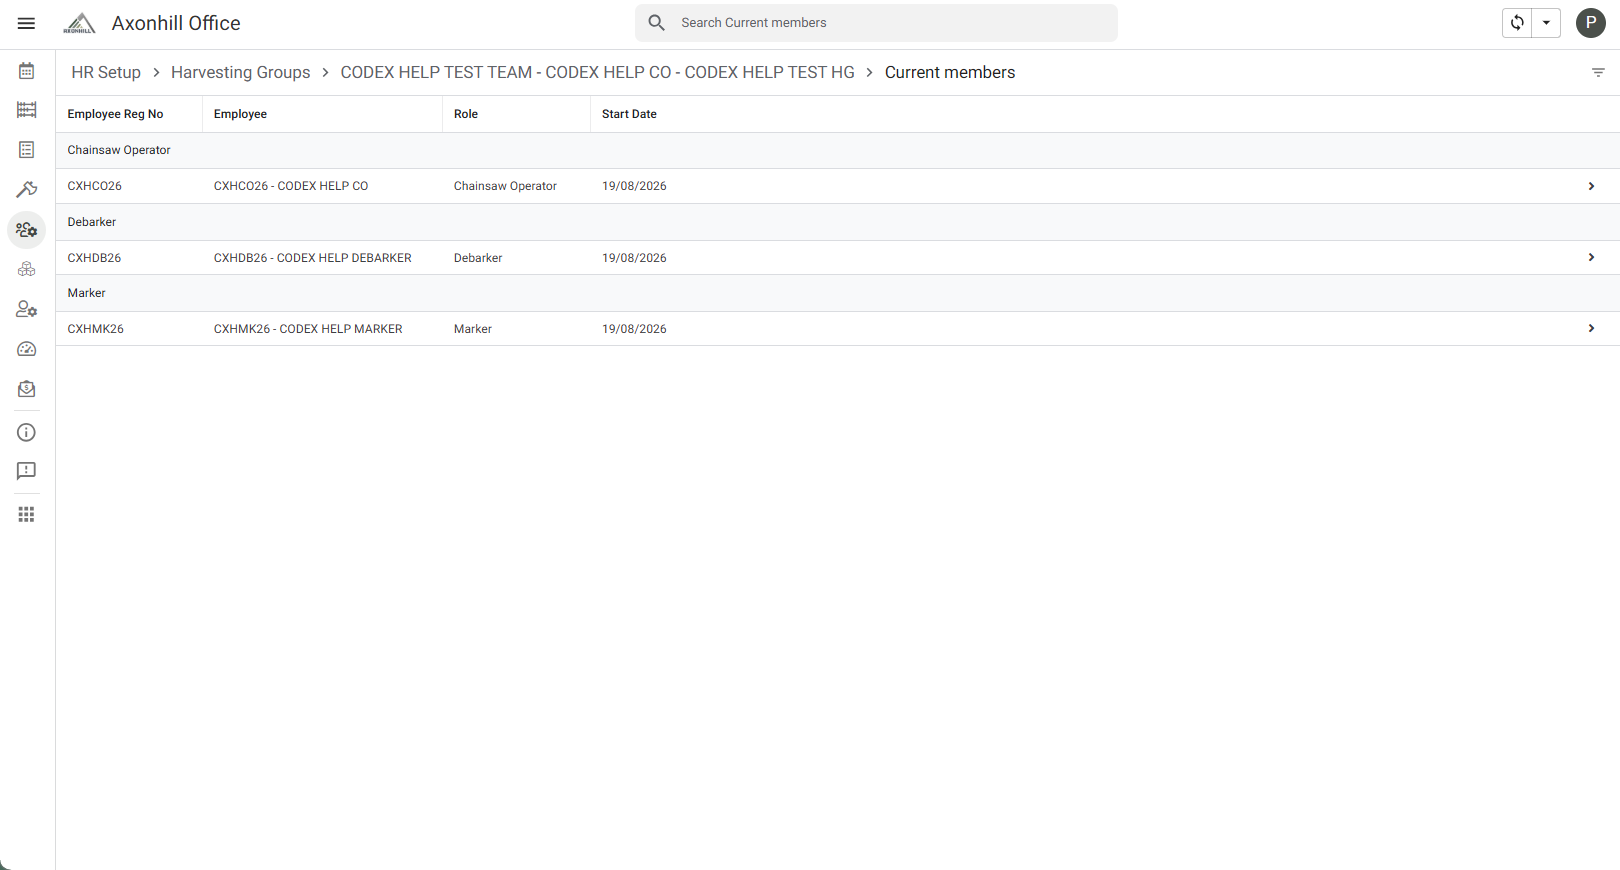
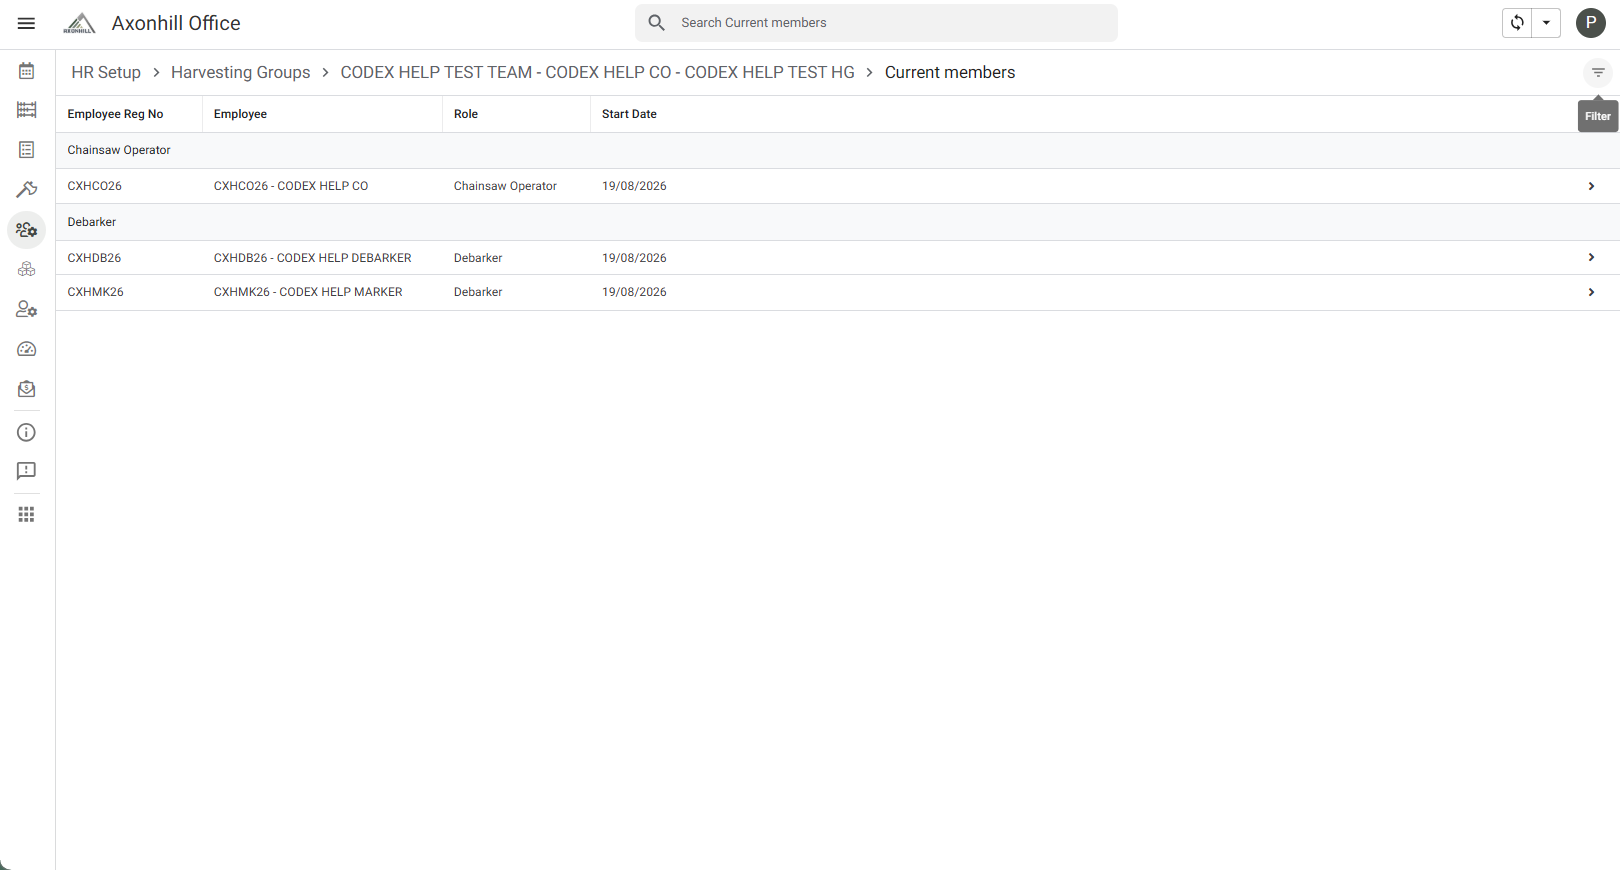
Verify Harvest Group membership guides

diff --git a/docs/zu/people-harvest-groups/view-membership-history.md b/docs/zu/people-harvest-groups/view-membership-history.md
@@ -7,7 +7,7 @@ reviewed: 2026-08-19
 
 # Buka wonke umlando wamalungu e-Harvest Group
 
-<p class="guide-meta">Umzila ne-filter ye-Harvest Group kuhloliwe. Umphumela welungu eliqediwe usadinga ukuhlolwa kokugcina. Umbhalo wesiZulu usadinga ukuhlolwa umuntu okhuluma isiZulu kahle.</p>
+<p class="guide-meta">Lo mzila uhlolwe ngokushintsha umsebenzi okulawulwayo nge-Harvest Group yokuhlola ehlukile ngomhlaka 19 Agasti 2026. Umbhalo wesiZulu usadinga ukuhlolwa umuntu okhuluma isiZulu kahle.</p>
 
 Sebenzisa lokhu ukuze ubone ama-assignment amanje namadala e-Harvest Group.
 
@@ -22,6 +22,6 @@ Sebenzisa lokhu ukuze ubone ama-assignment amanje namadala e-Harvest Group.
 
 ![Wonke umlando wamalungu e-Harvest Group yokuhlola](../assets/screenshots/office/hg-full-membership-history.png)
 
-Umugqa osebenzayo ubhalwe **Y**. I-assignment ephelile kufanele ihlale lapha nosuku lokuphela, noma ingasabonakali ku-**Current members**.
+Umugqa osebenzayo ubhalwe **Y**. I-assignment ephelile ibhalwe **N** futhi ihlala lapha nosuku lokuphela, noma ingasabonakali ku-**Current members**.
 
 Ukuhlola umsebenzi wansuku zonke, sebenzisa **Current members**. Ungashintshi umugqa omdala ukuze wenze i-history ibukeke ihlanzekile.

diff --git a/docs/en/people-harvest-groups/view-membership-history.md b/docs/en/people-harvest-groups/view-membership-history.md
@@ -1,13 +1,13 @@
 ---
 title: View full Harvest Group membership history
 flow_id: HR-08
-status: draft
+status: verified
 reviewed: 2026-08-19
 ---
 
 # View full Harvest Group membership history
 
-<p class="guide-meta">The route and group filter are verified. A controlled ended-membership result still needs final confirmation.</p>
+<p class="guide-meta">Verified with a controlled role change in an isolated test Harvest Group on 19 August 2026.</p>
 
 Use this to check both current and previous Harvest Group assignments.
 
@@ -22,6 +22,6 @@ Use this to check both current and previous Harvest Group assignments.
 
 ![Full membership history for a demonstration Harvest Group](../assets/screenshots/office/hg-full-membership-history.png)
 
-An active row is marked **Y**. An ended assignment should remain here with its end date, even though it no longer appears under **Current members**.
+An active row is marked **Y**. An ended assignment is marked **N** and remains here with its end date, even though it no longer appears under **Current members**.
 
 For normal daily checks, use **Current members**. Do not change an old row merely to make the history look cleaner.

diff --git a/docs/zu/people-harvest-groups/view-current-members.md b/docs/zu/people-harvest-groups/view-current-members.md
@@ -7,7 +7,7 @@ reviewed: 2026-08-19
 
 # Buka amalungu amanje e-Harvest Group
 
-<p class="guide-meta">Lo mzila uhlolwe nge-Harvest Group yokuhlola ehlukile ngomhlaka 19 Agasti 2026. Umbhalo wesiZulu usadinga ukuhlolwa umuntu okhuluma isiZulu kahle.</p>
+<p class="guide-meta">Lo mzila uhlolwe ngaphambi nangemuva kokushintsha umsebenzi nge-Harvest Group yokuhlola ehlukile ngomhlaka 19 Agasti 2026. Umbhalo wesiZulu usadinga ukuhlolwa umuntu okhuluma isiZulu kahle.</p>
 
 Sebenzisa lokhu uma ufuna abantu abasebenza kule Harvest Group manje. Ama-assignment amadala awaboniswa lapha.
 

diff --git a/docs/en/people-harvest-groups/view-current-members.md b/docs/en/people-harvest-groups/view-current-members.md
@@ -7,7 +7,7 @@ reviewed: 2026-08-19
 
 # View current Harvest Group members
 
-<p class="guide-meta">Verified with an isolated test Harvest Group on 19 August 2026.</p>
+<p class="guide-meta">Verified before and after a controlled role change in an isolated test Harvest Group on 19 August 2026.</p>
 
 Use this when you need the people who are currently assigned to a Harvest Group. Old assignments are excluded.
 
